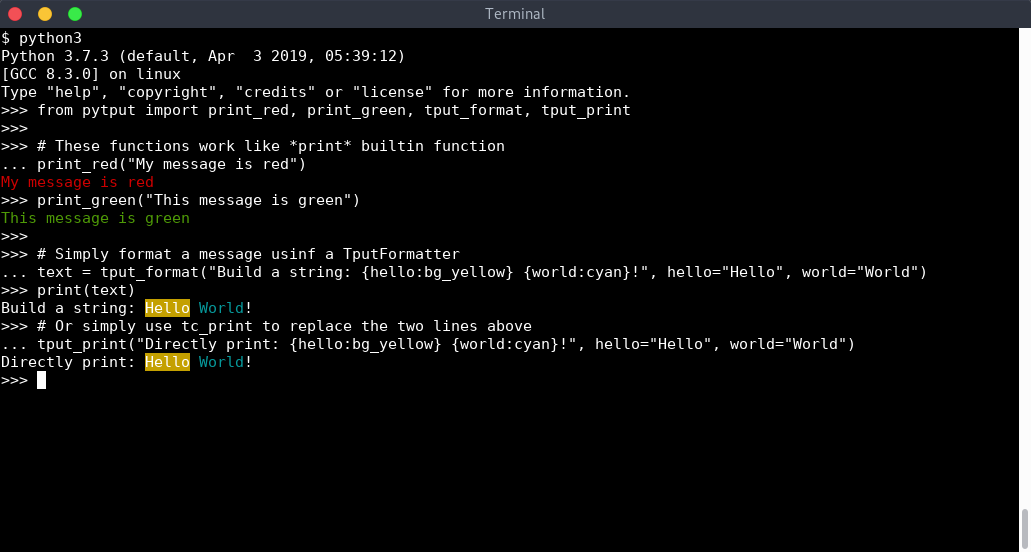
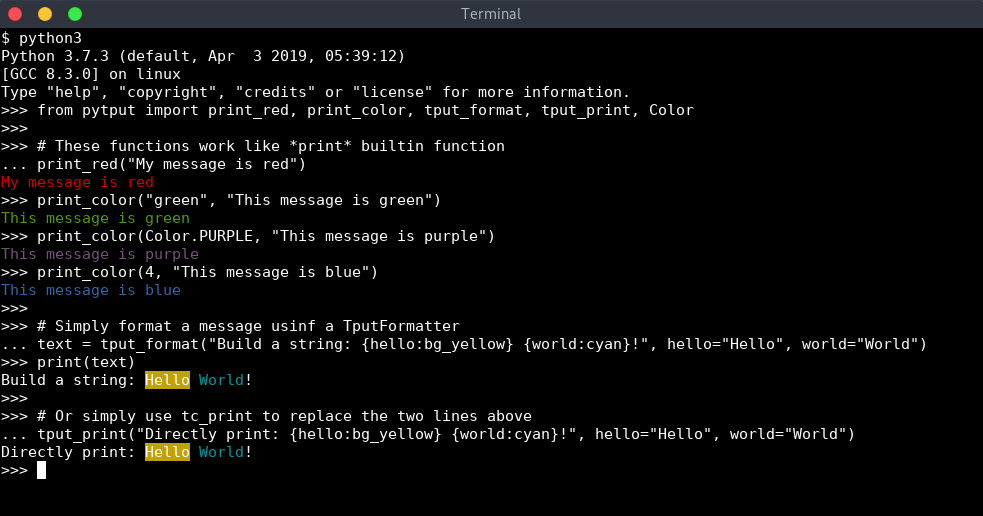
Update utils API
- Remove print_green
- Add print_color

diff --git a/src/pytput/utils.py b/src/pytput/utils.py
@@ -1,5 +1,5 @@
 from pytput.formatter import TputFormatter
-from pytput.style import Style
+from pytput.style import Color
 from pytput.tput import Tput
 
 
@@ -20,23 +20,23 @@ def tput_print(message, *args, **kwargs):
     print(tput_format(message, *args, **kwargs))
 
 
-def print_red(*args, **kwargs):
+def print_color(color: Color, *args, **kwargs):
     """
     Builtin print-like function that print a message in red
     """
-    print(Style.RED.value(_TPUT), sep="", end="")
+    if isinstance(color, int):
+        color = Color(color)
+    elif isinstance(color, str):
+        color = Color[color.upper()]
+    if not isinstance(color, Color):
+        raise ValueError("Unknown color: {0}".format(color))
+        color = Color(color)
+    print(_TPUT.setaf(color), sep="", end="")
     try:
         print(*args, **kwargs)
     finally:
-        print(Style.RESET.value(_TPUT), sep="", end="")
+        print(_TPUT.sgr0, sep="", end="")
 
 
-def print_green(*args, **kwargs):
-    """
-    Builtin print-like function that print a message in green
-    """
-    print(Style.GREEN.value(_TPUT), sep="", end="")
-    try:
-        print(*args, **kwargs)
-    finally:
-        print(Style.RESET.value(_TPUT), sep="", end="")
+def print_red(*args, **kwargs):
+    print_color(Color.RED, *args, **kwargs)

diff --git a/src/pytput/__main__.py b/src/pytput/__main__.py
@@ -2,7 +2,7 @@ import sys
 from argparse import ArgumentParser, RawDescriptionHelpFormatter
 
 from pytput.style import Style
-from pytput.utils import tput_format, tput_print
+from pytput.utils import tput_format, tput_print, print_red
 
 EXAMPLES = (
     (
@@ -57,7 +57,7 @@ def main():
     try:
         tput_print(args.format[0], *args.args, check_tty=args.check_tty)
     except BaseException as e:
-        print(str(e), file=sys.stderr)
+        print_red(str(e), file=sys.stderr)
         exit(2)
 
 

diff --git a/src/pytput/__init__.py b/src/pytput/__init__.py
@@ -1,12 +1,15 @@
 from pytput.formatter import TputFormatter
+from pytput.style import Style, Color
 from pytput.tput import Tput
-from pytput.utils import print_green, print_red, tput_format, tput_print
+from pytput.utils import print_color, print_red, tput_format, tput_print
 
 __all__ = [
     "TputFormatter",
     "Tput",
+    "Style",
+    "Color",
+    "print_color",
     "print_red",
-    "print_green",
     "tput_format",
     "tput_print",
 ]

diff --git a/README.md b/README.md
@@ -74,31 +74,31 @@ print(text)
 
 Here is the list of available styles
 
-| Formatter keyword | Python enum     | tput command   |
-| ----------------- | --------------- | -------------- |
-| *bold*            | Style.BOLD      | `tput bold`    |
-| *dim*             | Style.DIM       | `tput dim`     |
-| *underline*       | Style.UNDERLINE | `tput smul`    |
-| *blink*           | Style.BLINK     | `tput blink`   |
-| *standout*        | Style.STANDOUT  | `tput smso`    |
-| *reverse*         | Style.REVERSE   | `tput rev`     |
-| *reset*           | Style.RESET     | `tput sgr0`    |
-| *black*           | Style.BLACK     | `tput setaf 0` |
-| *red*             | Style.RED       | `tput setaf 1` |
-| *green*           | Style.GREEN     | `tput setaf 2` |
-| *yellow*          | Style.YELLOW    | `tput setaf 3` |
-| *blue*            | Style.BLUE      | `tput setaf 4` |
-| *purple*          | Style.PURPLE    | `tput setaf 5` |
-| *cyan*            | Style.CYAN      | `tput setaf 6` |
-| *white*           | Style.WHITE     | `tput setaf 7` |
-| *bg_black*        | Style.BG_BLACK  | `tput setab 0` |
-| *bg_red*          | Style.BG_RED    | `tput setab 1` |
-| *bg_green*        | Style.BG_GREEN  | `tput setab 2` |
-| *bg_yellow*       | Style.BG_YELLOW | `tput setab 3` |
-| *bg_blue*         | Style.BG_BLUE   | `tput setab 4` |
-| *bg_purple*       | Style.BG_PURPLE | `tput setab 5` |
-| *bg_cyan*         | Style.BG_CYAN   | `tput setab 6` |
-| *bg_white*        | Style.BG_WHITE  | `tput setab 7` |
+| Formatter keyword | tput command   |
+| ----------------- | -------------- |
+| *bold*            | `tput bold`    |
+| *dim*             | `tput dim`     |
+| *underline*       | `tput smul`    |
+| *blink*           | `tput blink`   |
+| *standout*        | `tput smso`    |
+| *reverse*         | `tput rev`     |
+| *reset*           | `tput sgr0`    |
+| *black*           | `tput setaf 0` |
+| *red*             | `tput setaf 1` |
+| *green*           | `tput setaf 2` |
+| *yellow*          | `tput setaf 3` |
+| *blue*            | `tput setaf 4` |
+| *purple*          | `tput setaf 5` |
+| *cyan*            | `tput setaf 6` |
+| *white*           | `tput setaf 7` |
+| *bg_black*        | `tput setab 0` |
+| *bg_red*          | `tput setab 1` |
+| *bg_green*        | `tput setab 2` |
+| *bg_yellow*       | `tput setab 3` |
+| *bg_blue*         | `tput setab 4` |
+| *bg_purple*       | `tput setab 5` |
+| *bg_cyan*         | `tput setab 6` |
+| *bg_white*        | `tput setab 7` |
 
 
 > Styles can be combined with `','` like `{message:underline,bold,yellow}`
@@ -110,18 +110,20 @@ Here is the list of available styles
 Some utility functions can be used to simply print lines with *styles*
 
 ```python
-from pytput import print_red, print_green, tput_format, tput_print
+from pytput import print_red, print_color, tput_format, tput_print, Color
 
 # These functions work like *print* builtin function
 print_red("My message is red")
-print_green("This message is green")
+print_color("green", "This message is green")
+print_color(Color.PURPLE, "This message is purple")
+print_color(4, "This message is blue")
 
 # Simply format a message usinf a TputFormatter
 text = tput_format("Build a string: {hello:bg_yellow} {world:cyan}!", hello="Hello", world="World")
 print(text)
+
 # Or simply use tc_print to replace the two lines above
 tput_print("Directly print: {hello:bg_yellow} {world:cyan}!", hello="Hello", world="World")
-
 ```
 ![utils](images/utils.png)
 
